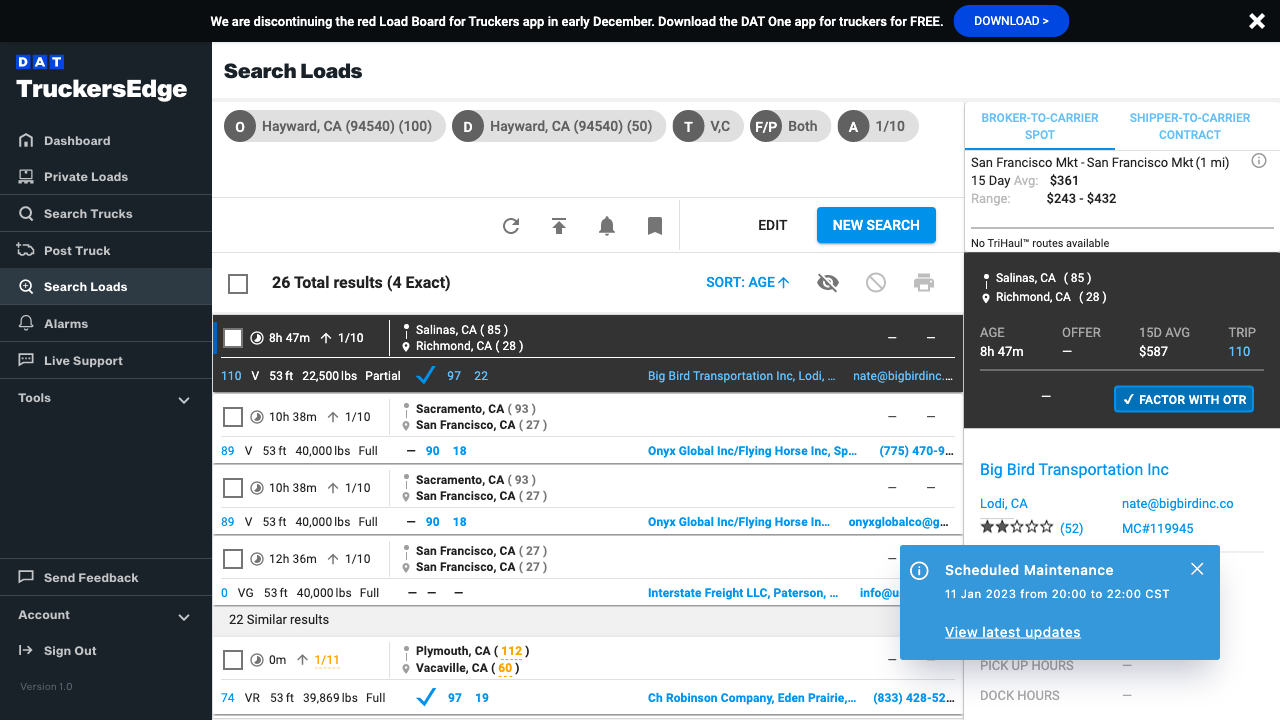
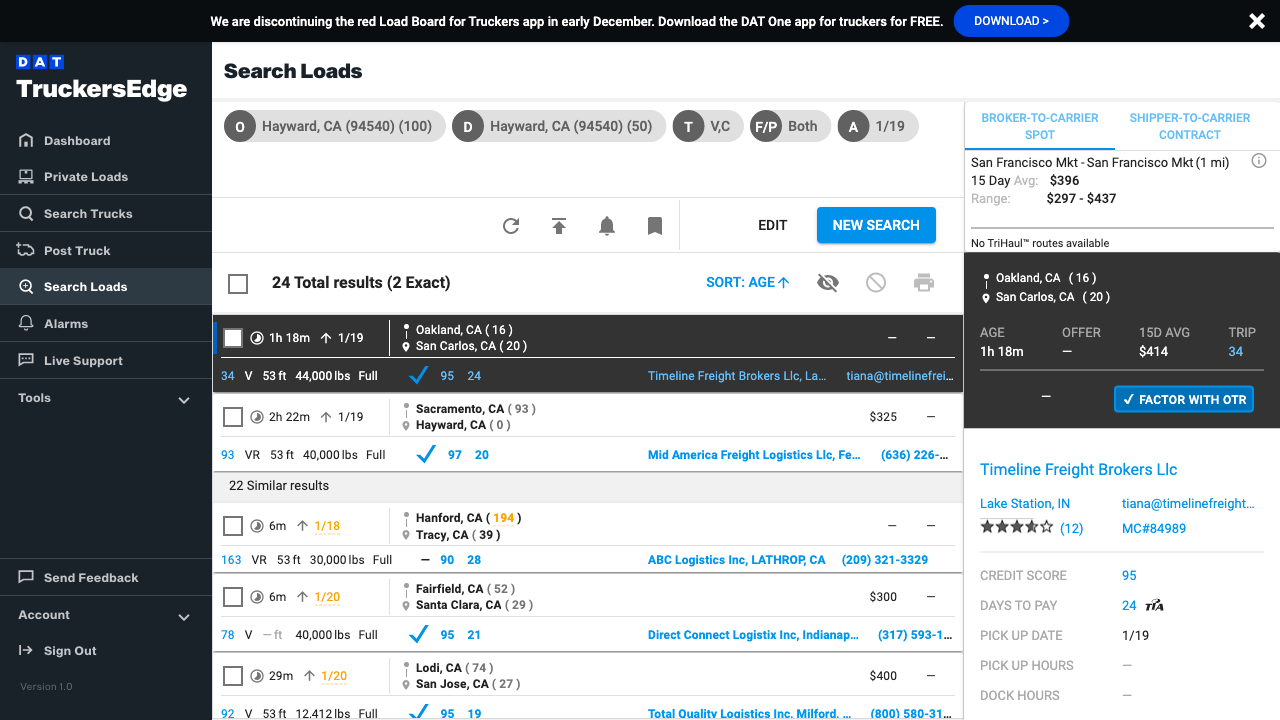
added date feature

diff --git a/test/login.test.ts b/test/login.test.ts
@@ -4,35 +4,6 @@ import * as nodemailer from 'nodemailer';
 import { MessageClient } from "cloudmailin"
 
 
-// async function send() {
-//     const hostname = "smtgmailp..com";
-//     const username= "hillo12305";
-//     const password= "hihello1";
-  
-//     const transporter = nodemailer.createTransport({
-//       host: hostname,
-//       port: 587,
-//       secure: false,
-//       requireTLS: true,
-//       auth: {
-//         user: username,
-//         pass: password,
-//       },
-//       logger: true
-//     });
-
-//     const info = await transporter.sendMail({
-//         from: '"Larry" <hillo12305@gmail.com>',
-//         to: "larryzhi1230@gmail.com",
-//         subject: "Hello from node",
-//         text: "Hello world?",
-//         html: "<strong>Hello world?</strong>",
-//         headers: { 'x-myheader': 'test header' }
-//       });
-    
-//       console.log("Message sent: %s", info.response);
-// }
-
 async function send1(n, p, n1, p1, r1, r2){
     
 
@@ -104,6 +75,8 @@ describe('Launch Browser', () => {
         console.log("clicked");
       }
 
+    let date: Date = new Date();  
+    let dstring = (date.getMonth()+1 + "/" + (date.getDate()+1) + "/" + date.getFullYear()); 
 
   await page.getByLabel('Origin').click();
   await page.getByRole('combobox', { name: 'Origin' }).fill('Hayward');
@@ -148,6 +121,14 @@ describe('Launch Browser', () => {
 
       await page.getByRole('button', { name: 'NEW SEARCH' }).click();
 
+      await page.getByLabel('Start date').click();
+      await page.getByLabel('Start date').press('Meta+a');
+      await page.getByLabel('Start date').fill(dstring);
+
+      await page.getByLabel('End date').click();
+      await page.getByLabel('End date').press('Meta+a');
+      await page.getByLabel('End date').fill(dstring);
+
       await page.getByRole('combobox', { name: 'Origin' }).fill('Los An');
       await page.getByRole('combobox', { name: 'Origin' }).press('Enter');
       await page.getByLabel('Destination').click();
@@ -176,7 +157,7 @@ describe('Launch Browser', () => {
       console.log(results2);
 
       send1 (name, price, name1, price1, results1, results2);
-      // await page.screenshot({ path: 'screenshot1.png' });
+      await page.screenshot({ path: 'screenshot1.png' });
       await browser.close();
     });
 
